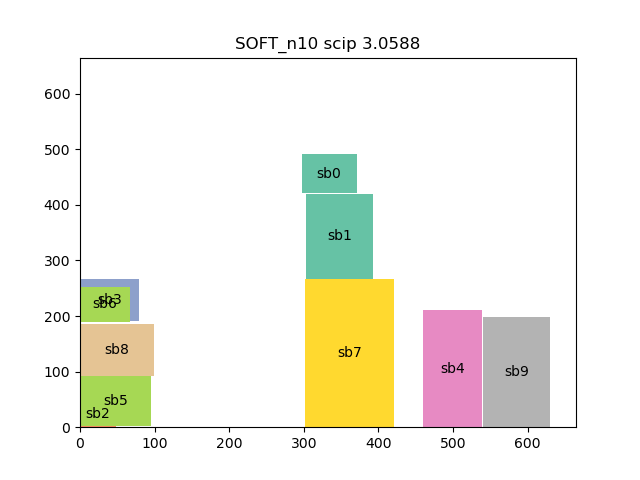
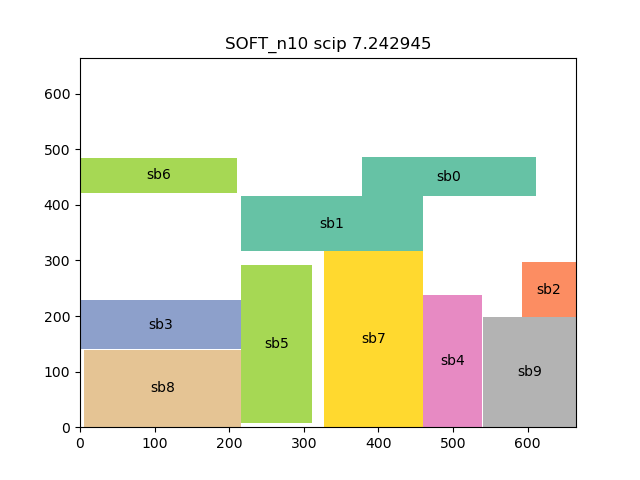
upd

diff --git a/floorplaner.py b/floorplaner.py
@@ -4,10 +4,15 @@ import random
 import time
 from netlist import Terminal, Block, SoftBlock, Net
 from Tree import Tree
+import pyscipopt
 from pyscipopt import Model as SCIP_Model
 from docplex.mp.model import Model
 import pathlib
 import numpy as np
+
+import matplotlib.pyplot as plt
+import matplotlib.cm as cm
+from matplotlib.patches import Polygon
 
 random.seed(0)
 
@@ -92,6 +97,12 @@ class FloorPlaner:
 				terminal = self.TerminalDic[terminal_name]
 				terminal.setX(int(line[1]))
 				terminal.setY(int(line[2]))
+			elif line[0][0] == 's':
+				block_name = line[0]
+				block = self.BlockDic[block_name]
+				block.setX(int(line[1]))
+				block.setY(int(line[2]))
+
 
 	def readNets(self, filename):
 		with open(filename) as f:
@@ -137,6 +148,57 @@ class FloorPlaner:
 		for n in self.NetList:
 			wirelen += n.wirelength()
 		return wirelen
+
+	def totalheight(self):
+		H  = 0
+		for b in self.BlockList:
+			if b.r:
+				H = np.maximum(H, b.y + b.w)
+			else:
+				H = np.maximum(H, b.y + b.h)
+		return H
+
+	def plot_floorplan(self, instance_name='n', result_directory='./results/', mode = 'sol-limit', solve_time=0):
+		WIDTH_REC = int((self.BlockArea / 0.5) ** 0.5)
+		HEIGHT_REC = WIDTH_REC
+		Enlarge_Fac = 1.0
+		# Plot external square
+		print("Plotting squares....")
+		fig, ax = plt.subplots()
+		# plt.plot((0, 0), (0, HEIGHT_REC/Enlarge_Fac), (WIDTH_REC/Enlarge_Fac, HEIGHT_REC/Enlarge_Fac), (WIDTH_REC/Enlarge_Fac, 0))
+		plt.xlim((0, WIDTH_REC / Enlarge_Fac))
+		plt.ylim((0, HEIGHT_REC / Enlarge_Fac))
+
+		TOTAL_HEIGHT = self.totalheight()
+		print("Total Area is {}".format(TOTAL_HEIGHT * WIDTH_REC / Enlarge_Fac / Enlarge_Fac))
+		print("BlockArea is {}".format(self.BlockArea))
+		print('')
+		n_blocks = len(self.BlockList)
+
+		for i in range(n_blocks):
+			# Display square i
+			if self.BlockList[i].r:
+
+				# exchange block width and height if rotate
+				# w = self.BlockList[i].w
+				# self.BlockList[i].setWidth(self.BlockList[i].h)
+				# self.BlockList[i].setHeight(w)
+
+				sx1, sx2, sy1, sy2 = self.BlockList[i].x, self.BlockList[i].x + self.BlockList[i].h, self.BlockList[i].y, self.BlockList[i].y + self.BlockList[i].w
+			else:
+				sx1, sx2, sy1, sy2 = self.BlockList[i].x, self.BlockList[i].x + self.BlockList[i].w, self.BlockList[i].y, self.BlockList[i].y + self.BlockList[i].h
+
+			sx1, sx2, sy1, sy2 = sx1 / Enlarge_Fac, sx2 / Enlarge_Fac, sy1 / Enlarge_Fac, sy2 / Enlarge_Fac
+			poly = Polygon([(sx1, sy1), (sx1, sy2), (sx2, sy2), (sx2, sy1)], fc=cm.Set2(float(i) / n_blocks))
+			ax.add_patch(poly)
+			# Display identifier of square i at its center
+			ax.text(float(sx1 + sx2) / 2, float(sy1 + sy2) / 2, self.BlockList[i].t.name, ha='center', va='center')
+		# ax.xaxis.set_major_locator(ticker.MultipleLocator(0.5))
+		# ax.yaxis.set_major_locator(ticker.MultipleLocator(0.5))
+		plt.margins(0)
+		plt.title(instance_name + ' scip ' + str(solve_time))
+		fig.savefig(result_directory + instance_name + '_scip_' + mode + '.png')
+		plt.show()
 
 	def init(self, NumMove=100):
 		self.tree = Tree(self.BlockList)
@@ -439,9 +501,12 @@ class FloorPlaner:
 			N_SOL_LIMIT = 1
 			model.setParam('limits/solutions', N_SOL_LIMIT)
 		elif mode == 'time-limit':
-			TIME_LIMIT = 1800
+			TIME_LIMIT = 3600 * 4
 			print('sovler time limit: ', TIME_LIMIT)
 			model.setParam('limits/time', TIME_LIMIT)
+
+		# model.setHeuristics(pyscipopt.SCIP_PARAMSETTING.AGGRESSIVE)
+		# model.setSeparating(pyscipopt.SCIP_PARAMSETTING.FAST)
 
 		# N_SOL_LIMIT = 1
 		# TIME_LIMIT = 3600
@@ -460,10 +525,6 @@ class FloorPlaner:
 		# msol.get_value_dict()
 
 		if msol:
-
-			import matplotlib.pyplot as plt
-			import matplotlib.cm as cm
-			from matplotlib.patches import Polygon
 			import matplotlib.ticker as ticker
 
 			# Plot external square
@@ -485,6 +546,8 @@ class FloorPlaner:
 				elif self.BlockList[i].type == 'softrectangular':
 					sz_i = 0
 					sx_i, sy_i, sw_i, sh_i = model.getSolVal(msol, vx[i]), model.getSolVal(msol, vy[i]), model.getSolVal(msol, BLOCK_WIDTH_LIST[i]), model.getSolVal(msol, BLOCK_HEIGHT_LIST[i])
+					self.BlockList[i].setX(sx_i)
+					self.BlockList[i].setY(sy_i)
 					self.BlockList[i].setWidth(sw_i)
 					self.BlockList[i].setHeight(sh_i)
 					BLOCK_WIDTH_LIST[i] = sw_i
@@ -495,10 +558,13 @@ class FloorPlaner:
 				self.BlockList[i].setY(sy_i)
 				# transform (rotation)
 				if sz_i:
+					r_i = True
+					self.BlockList[i].setRotate(r_i)
+
 					# exchange block width and height if rotate
-					w = self.BlockList[i].w
-					self.BlockList[i].setWidth(self.BlockList[i].h)
-					self.BlockList[i].setHeight(w)
+					# w = self.BlockList[i].w
+					# self.BlockList[i].setWidth(self.BlockList[i].h)
+					# self.BlockList[i].setHeight(w)
 
 					sx1, sx2, sy1, sy2 = sx_i, sx_i + BLOCK_HEIGHT_LIST[i], sy_i, sy_i + BLOCK_WIDTH_LIST[i]
 				else:

diff --git a/netlist.py b/netlist.py
@@ -24,17 +24,25 @@ class Block:
 
     def setX(self, x):
         self.x = x
-        self.t.x = x + (self.h/2 if self.r else self.w/2)
+        self.t.x = self.x + (self.h/2 if self.r else self.w/2)
 
     def setY(self, y):
         self.y = y
-        self.t.y = y + (self.w/2 if self.r else self.h/2)
+        self.t.y = self.y + (self.w/2 if self.r else self.h/2)
 
     def setWidth(self, w):
         self.w = w
+        self.t.x = self.x + (self.h / 2 if self.r else self.w / 2)
 
     def setHeight(self, h):
         self.h = h
+        self.t.y = self.y + (self.w / 2 if self.r else self.h / 2)
+
+    def setRotate(self, r):
+        self.r = r
+        self.t.x = self.x + (self.h / 2 if self.r else self.w / 2)
+        self.t.y = self.y + (self.w / 2 if self.r else self.h / 2)
+
 
 
 class SoftBlock(Block):

diff --git a/test_scip.py b/test_scip.py
@@ -15,11 +15,11 @@ random.seed(0)
 
 if __name__ == '__main__':
 	block_types = ['HARD', 'SOFT']
-	block_type = block_types[1]
+	block_type = block_types[0]
 	modes = ['sol-limit', 'time-limit']
 	mode = modes[0]
 	print('mode : ', mode)
-	instance_id = 'n10'
+	instance_id = 'n100'
 	instance_name = block_type + '_' + instance_id
 
 	result_directory = './results/' + block_type + '/'
@@ -31,6 +31,7 @@ if __name__ == '__main__':
 	fp.readPins('./GSRCbench/' + block_type + '/' + instance_id + '.pl')
 	fp.readNets('./GSRCbench/' + block_type + '/' + instance_id + '.nets')
 
+	# fp.plot_floorplan(instance_name=instance_name, result_directory=result_directory, mode = 'init', solve_time=0)
 	fp.ILP_floorplan_scip(instance_name=instance_name, result_directory=result_directory, mode=mode)
 
 	# fp.alpha = 0.5
